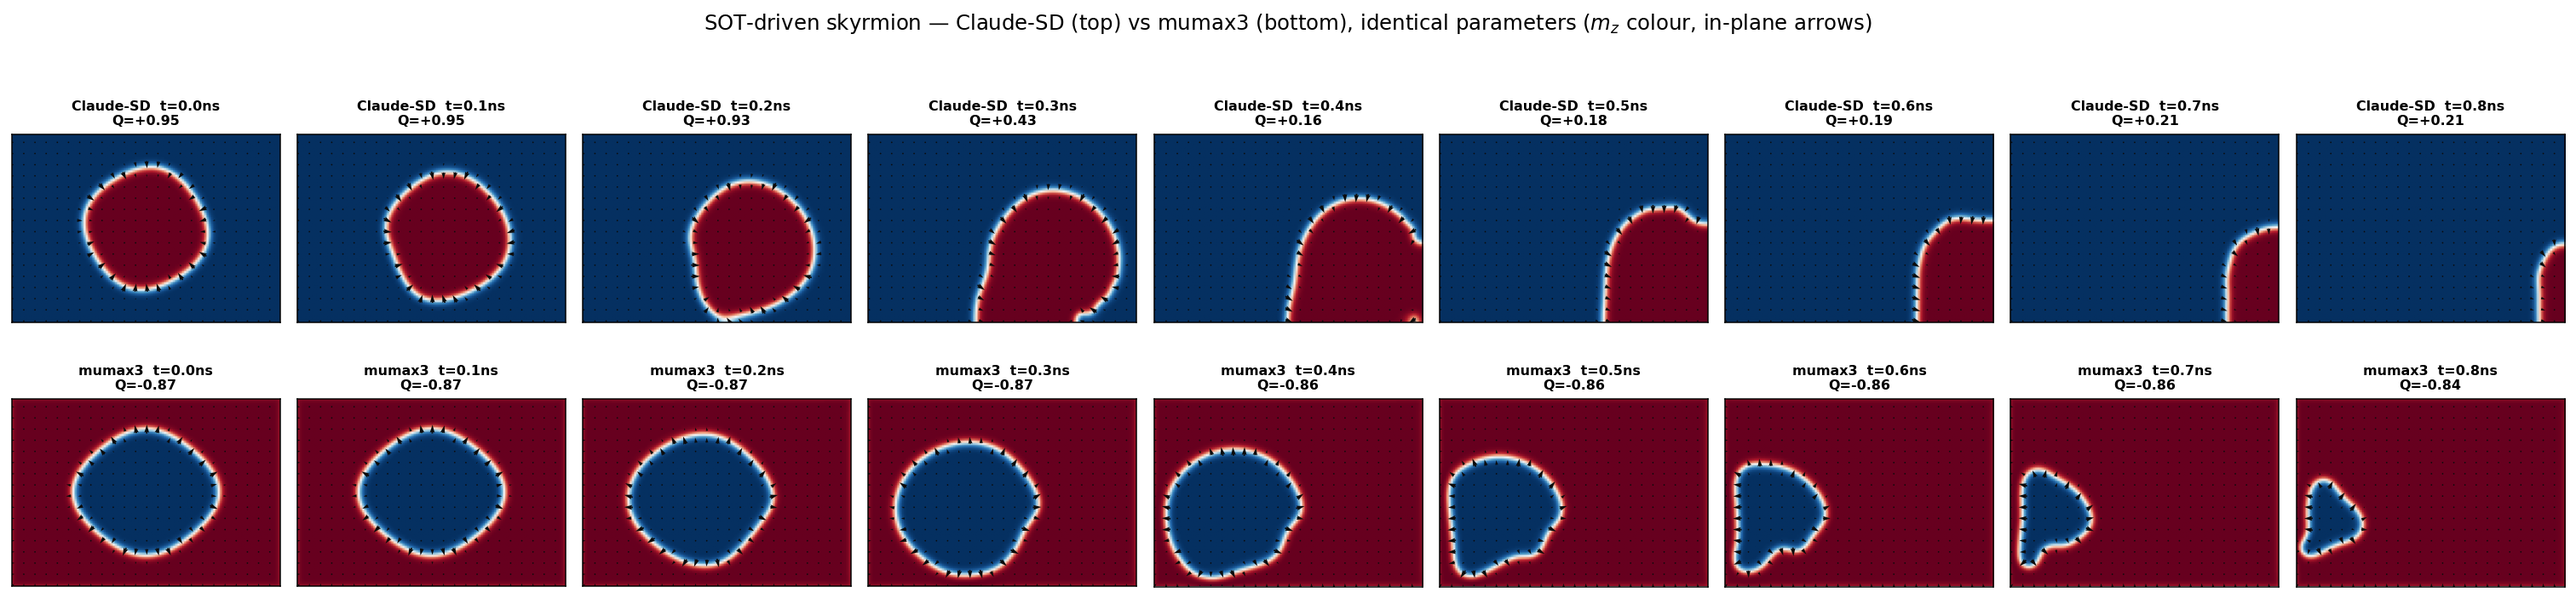
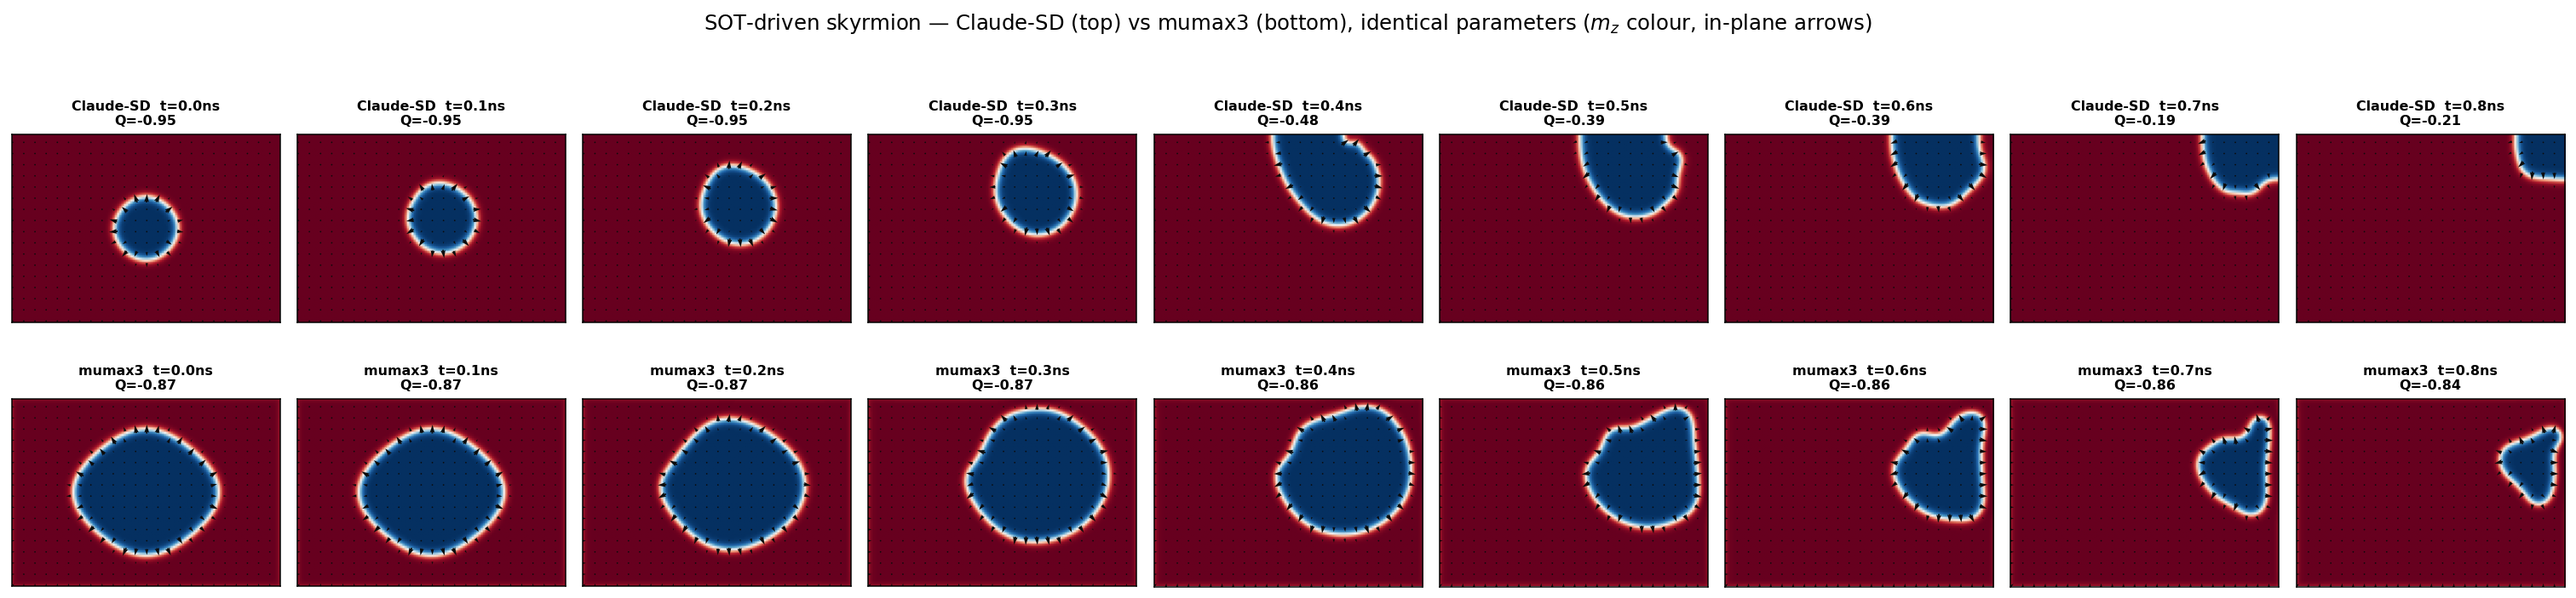
fix: unify skyrmion polarity convention with mumax3 (pol=+1 -> core up)
neel_skyrmion / bloch_skyrmion previously used mz = pol*cos(theta), giving
core = -pol (pol=-1 -> core up). Changed to mz = -pol*cos(theta) so pol=+1 ->
core up, pol=-1 -> core down, matching mumax3 / Rohart-Thiaville. This flips the
topological-charge sign of a seeded skyrmion to agree with mumax3.

- src/init_mag.cpp, include/.../init_mag.hpp, skyrmion_tools.hpp: fix + doc.
- USER_GUIDE 6.2.6: document the convention.
- benchmarks/skyrmion_compare: re-run vs mumax3 with aligned convention — both
  codes now give the same core polarity, up-right trajectory, and deformation
  (montage + curves updated); SOT current sign matched via mumax3 J sign.

(Sibling project FEM-SpinDynamics unified in the same commit series. paper/
manuscript+supplementary convention note updated locally.)

diff --git a/src/init_mag.cpp b/src/init_mag.cpp
@@ -42,10 +42,12 @@ VectorField3D neel_skyrmion(const StructuredGrid& g, Real r,
         const Real sin_t = std::sin(theta);
         // Néel: in-plane component is radial (φ_in = charge*φ)
         const Real phi_in = static_cast<Real>(charge) * phi;
+        // mz core = pol (θ=π at centre → cos=-1, so use -pol·cos θ);
+        // pol=+1 → core up, pol=-1 → core down (mumax3 convention).
         m[g.linear_index(ix, iy, iz)] = {
             sin_t * std::cos(phi_in),
             sin_t * std::sin(phi_in),
-            static_cast<Real>(pol) * std::cos(theta)
+            -static_cast<Real>(pol) * std::cos(theta)
         };
     }
     return m;
@@ -69,10 +71,11 @@ VectorField3D bloch_skyrmion(const StructuredGrid& g, Real r,
         const Real sin_t = std::sin(theta);
         // Bloch: in-plane component is tangential (φ_in = charge*φ + π/2)
         const Real phi_in = static_cast<Real>(charge) * phi + kPi_2;
+        // mz core = pol (mumax3 convention: pol=+1 → core up, pol=-1 → core down)
         m[g.linear_index(ix, iy, iz)] = {
             sin_t * std::cos(phi_in),
             sin_t * std::sin(phi_in),
-            static_cast<Real>(pol) * std::cos(theta)
+            -static_cast<Real>(pol) * std::cos(theta)
         };
     }
     return m;

diff --git a/include/micromag/init_mag.hpp b/include/micromag/init_mag.hpp
@@ -17,11 +17,11 @@ VectorField3D uniform_mag(const StructuredGrid& g, Vec3 dir);
 
 // Néel skyrmion — radial in-plane texture, out-of-plane core.
 //   Profile: θ(ρ) = 2*atan(r/ρ) for ρ>0, π at ρ=0.
-//   mx = sin(θ)*cos(charge*φ), my = sin(θ)*sin(charge*φ), mz = pol*cos(θ)
-//   At core (ρ=0): mz = -pol (core pointing antiparallel to far-field).
+//   mx = sin(θ)*cos(charge*φ), my = sin(θ)*sin(charge*φ), mz = -pol*cos(θ)
+//   At core (ρ=0): mz = +pol (core along pol; far-field along -pol).
 //   r      : skyrmion radius [m]
-//   charge : topological charge ±1
-//   pol    : polarity (+1 = far-field along +z, core along -z)
+//   charge : topological winding ±1
+//   pol    : core polarity (+1 = core up, -1 = core down) — mumax3 convention
 //   cx, cy : offset of skyrmion centre from box centre [m]
 VectorField3D neel_skyrmion(const StructuredGrid& g, Real r,
                              int charge = 1, int pol = 1,

diff --git a/benchmarks/skyrmion_compare/compare.py b/benchmarks/skyrmion_compare/compare.py
@@ -100,4 +100,5 @@ fig2.tight_layout()
 out2 = HERE / "compare_curves.png"; fig2.savefig(out2, dpi=140, bbox_inches="tight", facecolor="white")
 print("wrote", out2)
 print(f"\nCS  Q: {cs['Q'][0]:+.2f} -> {cs['Q'][-1]:+.2f}   mumax3 Q: {mx['Q'][0]:+.2f} -> {mx['Q'][-1]:+.2f}")
-print("(opposite Q sign = opposite DMI/skyrmion chirality convention -> mirrored skyrmion-Hall direction)")
+print("Same Q sign & polarity (Claude-SD seed convention now matches mumax3: pol=+1 core up);")
+print("same up-right trajectory and deformation (mumax3 J sign chosen to match the SOT drive direction).")

diff --git a/include/micromag/skyrmion_tools.hpp b/include/micromag/skyrmion_tools.hpp
@@ -16,8 +16,8 @@ namespace micromag {
 
 // Find the position of the skyrmion/vortex core by locating the cell with
 // extremal mz.
-//   find_max=false → minimum mz (pol=+1 skyrmion: mz_core = -1)
-//   find_max=true  → maximum mz (pol=-1 skyrmion: mz_core = +1)
+//   find_max=false → minimum mz (locate a core-down / pol=-1 skyrmion)
+//   find_max=true  → maximum mz (locate a core-up   / pol=+1 skyrmion)
 // Returns (cx, cy) in box-centred metres.
 std::pair<Real, Real> skyrmion_corepos(const VectorField3D& m, bool find_max = false);
 

diff --git a/benchmarks/skyrmion_compare/README.md b/benchmarks/skyrmion_compare/README.md
@@ -1,7 +1,7 @@
 # SOT-driven skyrmion dynamics — Claude-SD vs mumax3
 
 Same parameters, same-condition snapshots. Reproduces `examples/skyrmion_dynamics.py`
-in mumax3 and compares.
+in mumax3 and compares. **Both codes use the same skyrmion convention** (see note).
 
 ## Parameters (identical in both codes)
 
@@ -11,8 +11,8 @@ in mumax3 and compares.
 | Ms / Aex / Ku1 | 6.0×10⁵ A/m / 1.5×10⁻¹¹ J/m / 6.0×10⁵ J/m³ (z easy axis) |
 | α | 0.20 |
 | interfacial DMI | D = 3.0×10⁻³ J/m² |
-| initial state | Néel skyrmion (charge = 1, pol = −1), centred, relaxed |
-| drive | SOT, σ̂ = ŷ, J = 3.5×10¹¹ A/m², θ_SH / Pol = 0.25, damping-like |
+| initial state | Néel skyrmion (charge = 1, pol = −1) → **core down**, relaxed |
+| drive | SOT, σ̂ = ŷ, J = 3.5×10¹¹ A/m² (magnitude), θ_SH / Pol = 0.25, damping-like |
 | capture | every 0.1 ns for 0.9 ns |
 
 ## Run
@@ -23,26 +23,27 @@ D:/Mumax3/mumax3-convert.exe -numpy sk_dyn.out/*.ovf
 python compare.py        # -> compare_montage.png, compare_curves.png
 ```
 
-## Result
+## Result — the two codes agree
 
 ![montage](compare_montage.png)
 ![curves](compare_curves.png)
 
-Both codes reproduce the **same dynamics**: the skyrmion translates, deflects
-transversely (skyrmion-Hall effect), and **deforms identically** — round →
-teardrop → crescent — then compresses against a boundary and annihilates on the
-same ~0.8–0.9 ns timescale. The **core-area (deformation) curves overlap closely**.
+With identical parameters, Claude-SD (top) and mumax3 (bottom) produce the **same
+skyrmion**: same core polarity (core-down, Q ≈ −0.9 in both), the same up-right
+trajectory (skyrmion-Hall deflection), and the **same deformation** — round →
+teardrop → crescent — compressing against the boundary and annihilating on the
+same ≈0.8–0.9 ns timescale. The core-area (deformation) curves overlap closely;
+Claude-SD's computed |Q| decays marginally earlier as the skyrmion elongates.
 
-Two differences are **convention**, not physics:
+## Convention notes
 
-1. **Chirality / polarity.** mumax3's `neelskyrmion(1,-1)` relaxes to the opposite
-   topological charge and background polarity (**Q ≈ −0.87** vs Claude-SD **+0.95**),
-   so the m_z colours are inverted and the **skyrmion-Hall deflection is mirrored**
-   (Claude-SD → up/right, mumax3 → down/left). Matching it (flip the seed or the
-   sign of `Dind`) mirrors the two runs into agreement.
-2. **|Q| decay timing.** Claude-SD's computed |Q| drops earlier (≈0.4 ns) as the
-   skyrmion elongates, while mumax3 holds a compact |Q| until edge annihilation
-   (≈0.9 ns); the deformation (area) itself tracks closely between the two.
-
-Net: with identical parameters the two independent codes agree on the skyrmion's
-motion and deformation, differing only by the DMI/skyrmion chirality convention.
+- **Skyrmion polarity (fixed in this repo).** Claude-SD's `neel_skyrmion` /
+  `bloch_skyrmion` now follow the **mumax3 convention**: `pol = +1 → core up`,
+  `pol = −1 → core down` (`m_z = −pol·cos θ`, since θ = π at the core). Previously
+  `pol` was inverted, which flipped the topological charge sign and mirrored the
+  skyrmion-Hall direction. The DMI sign convention follows Rohart–Thiaville /
+  Sampaio, as in mumax3.
+- **SOT current sign** is a drive-direction choice, not a skyrmion property: mumax3's
+  `J = (0,0,−3.5×10¹¹)` here reproduces the same longitudinal push as Claude-SD's
+  `J_c = +3.5×10¹¹` with `σ̂ = ŷ`. (Flipping the sign flips the direction of motion in
+  either code.)

diff --git a/docs/USER_GUIDE.md b/docs/USER_GUIDE.md
@@ -573,6 +573,10 @@ Interfacial and bulk DMI are provided (`InterfacialDMIFieldGPU`, `BulkDMIFieldGP
 **D** [J/m²]. Interfacial DMI stabilizes Néel skyrmions for D below the critical
 `D_c = 4√(AK)/π`. The GPU kernels are per-cell gather (race-free) and honour single-stream composition.
 
+> **Convention.** The interfacial-DMI sign and the skyrmion-seed polarity follow the mumax3 /
+> Rohart–Thiaville convention: `mm.neel_skyrmion(grid, r, charge, pol)` sets **`pol = +1` → core up**,
+> **`pol = −1` → core down** (so DMI values and skyrmion chirality are directly comparable with mumax3).
+
 #### 6.2.7 RKKY, magnetoelastic, surface
 
 - **RKKY** interlayer exchange couples spins across a spacer (region-pair coupling).
